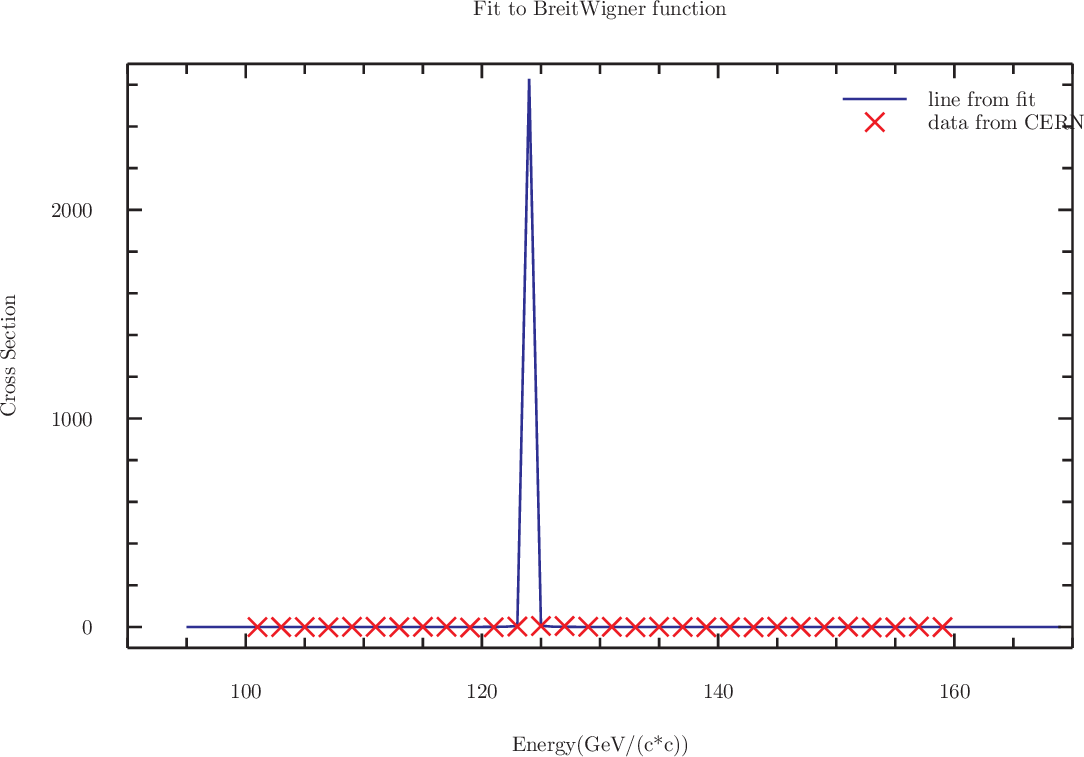
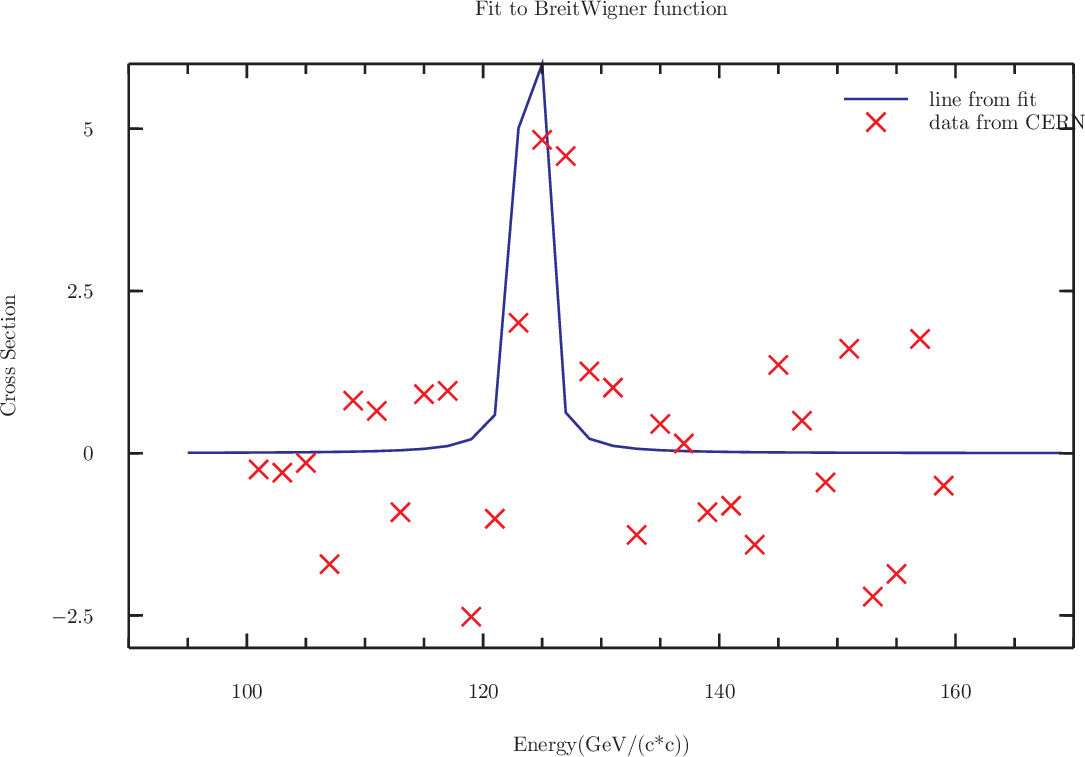
Initial commit

diff --git a/homework/Minimization/main.c b/homework/Minimization/main.c
@@ -65,7 +65,7 @@ printf("Som en sidste ting har vi prøvet at bruge vores minimerings fit til at 
 //printer data til plotning
 FILE *plot;
 plot = fopen("plot.txt","w");
-for(double e=95;e<170;e++)fprintf(plot,"%6g %6g\n",e,Breit_Wigner(e,B));
+for(double e=95;e<170;e+=2)fprintf(plot,"%6g %6g\n",e,Breit_Wigner(e,B));
 fclose(plot);
 
 return 0;
